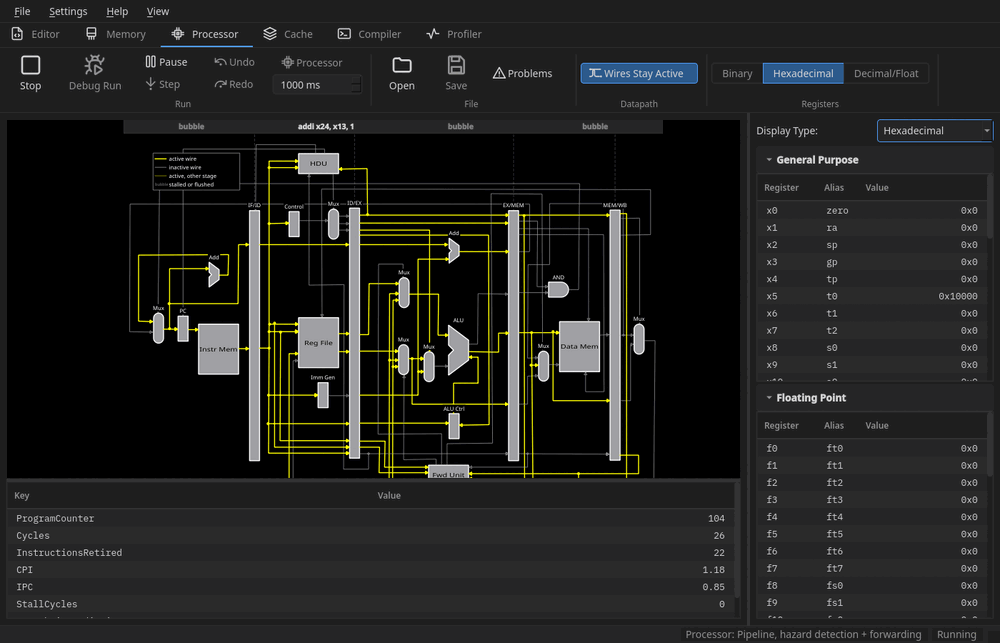
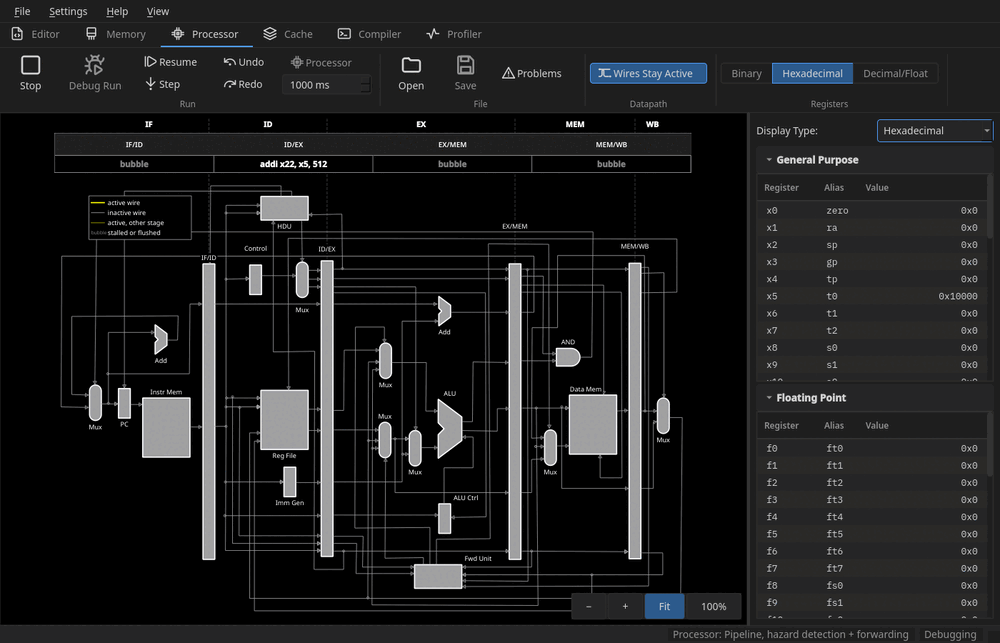
docs: zoom, the Profiler carrying the Processor tab's counters, test count 4,363 (polish)
- README: a feature line for the diagram's zoom (Fit by default, 25-400 %,
  Ctrl + wheel, pinch, Ctrl+plus/minus/0, the buttons); the Profiler line
  names the program counter; the processor screenshot replaced with the
  new layout (the diagram at Fit with its zoom buttons, no table under it).
- docs/profiler_metrics.md: the Profiler tab holds what the Processor tab
  used to show under the diagram (the counters, plus Program counter in the
  Summary), split 55 / 45 so every table is whole (known_issues 147).
- Test count 4,363 (4,326 + 37) in AGENTS.md, GEMINI.md, docs/TESTING.md and
  README.md; a full serial run took 588 s.

diff --git a/README.md b/README.md
@@ -15,11 +15,12 @@ watch what the hardware does:
 
 - **Five processor models.** Single-cycle, and a five-stage pipeline in four variants: with or without hazard detection, and with or without forwarding. Choose with the ribbon's **Processor** button, or `--vm` on the CLI.
 - **Hazards and forwarding, shown.** The Processor tab draws the datapath and lights the wires each cycle uses, including the hazard unit and the forwarding unit. The pipeline timing grid shows each instruction's stages per cycle, marks stalls and flushes, and explains a selected cell. Undo, Redo and a jump to any cycle step back through a run.
+- **Zoom.** The processor diagram fits the window by default and zooms from 25 % to 400 % with Ctrl + mouse wheel, a touchpad pinch, Ctrl+plus / Ctrl+minus / Ctrl+0 (Fit), or the buttons at its bottom right; drag to pan when zoomed.
 - **Caches and the Cache Lab.** An instruction cache, an L1 data cache and an L2, each configurable (sets, ways, line size, write policies, LRU, FIFO or a Lua script). The Cache Lab adds:
   - a live set × way view of every line during a run;
   - one-click lab presets;
   - an exported JSON lab record per run.
-- **Profiler.** Cycles, instructions, CPI, IPC, stall and flush breakdowns, branch mispredictions, per-line execution counts and instruction-type counts. Under "More metrics":
+- **Profiler.** The program counter, cycles, instructions, CPI, IPC, stall and flush breakdowns, branch mispredictions, per-line execution counts and instruction-type counts. Under "More metrics":
   - the retired-instruction mix (per type, per mnemonic, loads and stores);
   - branch statistics (taken rate, misprediction rate);
   - speed-up over the single-cycle processor (cycle counts only);
@@ -34,7 +35,7 @@ watch what the hardware does:
   - a command-line simulator;
   - ten themes.
 
-| Five-stage pipeline, mid-run | Cache Lab live view during `stride_1` |
+| Five-stage pipeline (Fit; zoom buttons at the bottom right) | Cache Lab live view during `stride_1` |
 | --- | --- |
 | ![Processor tab](docs/images/processor_pipeline.png) | ![Cache tab](docs/images/cache_live_view.png) |
 
@@ -79,7 +80,7 @@ Write or open a `.s` file in the Editor tab and press **Run** (or **Debug Run**,
 cmake --preset linux-test && cmake --build --preset linux-test && ctest --preset linux-test
 ```
 
-There are 4,326 tests, all passing; a serial run takes about 10 minutes. **Run them serially, never `ctest -j`**: the GUI tests share a scratch file. See [docs/TESTING.md](docs/TESTING.md).
+There are 4,363 tests, all passing; a serial run takes about 10 minutes. **Run them serially, never `ctest -j`**: the GUI tests share a scratch file. See [docs/TESTING.md](docs/TESTING.md).
 
 ## Command line
 
@@ -111,7 +112,7 @@ The lab's expected hit, miss and eviction counts are measured and pinned by the 
 | `src/` | The simulator and the application: assembler, processor models, caches, scheduler, UI. |
 | `cli/` | The command-line simulator, `atlas-cli`. |
 | `main.cpp` | The application's entry point. |
-| `test/` | The GoogleTest suite (4,326 tests). |
+| `test/` | The GoogleTest suite (4,363 tests). |
 | `examples/` | Example programs: hazards, F/D, cache lab, scheduler demos, Lua replacement policies. |
 | `resources/` | Compiled-in resources: themes, icons, fonts, processor diagrams, instruction data. |
 | `external/` | Vendored Lua 5.5.0, for custom cache replacement policies. |

diff --git a/AGENTS.md b/AGENTS.md
@@ -35,8 +35,8 @@
 
 ## Known Baseline Issues & Verified Facts
 1. **Test Suite Status & Harness Resolution**:
-   - Total registered tests: **4,326** (final/metrics; 158 at the original audit).
-   - Test execution result: **4,326/4,326 pass** under serial `ctest --test-dir build-tests`. Do not use `ctest -j`: the GUI tests share `test/vm_state/temp.asm` and flake in parallel (known_issues 150, `docs/TESTING.md`).
+   - Total registered tests: **4,363** (final/polish; 158 at the original audit).
+   - Test execution result: **4,363/4,363 pass** under serial `ctest --test-dir build-tests`. Do not use `ctest -j`: the GUI tests share `test/vm_state/temp.asm` and flake in parallel (known_issues 150, `docs/TESTING.md`).
    - *Harness Root Cause 1*: `test/test_main.cpp` originally lacked a `QApplication`. Constructing any RVSS/RV5S processor builds a `QGraphicsScene`, which crashed with `SIGSEGV` when uninitialized in headless environments. Fixed with an offscreen headless `QApplication` in `test_main.cpp`.
    - *Harness Root Cause 2*: Tests open `"../examples/..."` (~100 occurrences), requiring execution with working directory set to `test/`. CTest sets this automatically via `gtest_discover_tests` `WORKING_DIRECTORY`.
    - Earlier "43 pass / 115 fail" figures were due to running without QApplication / wrong working directory, not simulator logic bugs.

diff --git a/docs/profiler_metrics.md b/docs/profiler_metrics.md
@@ -5,7 +5,7 @@ The first set of extra Profiler metrics (the 21 Nov roadmap). They are additive 
 - no simulator logic changed: nothing under `src/processor` or `src/assembler`.
 
 Where they appear:
-- **Profiler tab, "More metrics"**, below the two existing tables. Its tabs are Summary, By type, By mnemonic and Hottest loops, with a caption underneath.
+- **Profiler tab, "More metrics"**, below the two existing tables. Its tabs are Summary, By type, By mnemonic and Hottest loops, with a caption underneath. Since final/polish the Profiler tab also holds everything the Processor tab used to show under the diagram: the counters were already its own rows, and the Summary gains **Program counter** [Measured], in hex. The source and the numbers share the tab 55 / 45, so every table is whole at the default window width (known_issues 147).
 - **Cache tab:** misses by cause, in each cache's live view.
 
 Every number is labelled like the existing counters:

diff --git a/GEMINI.md b/GEMINI.md
@@ -8,7 +8,7 @@ See [AGENTS.md](AGENTS.md) for primary instructions.
 - **Build**: `cmake -S . -B build -G Ninja && cmake --build build` (or `./scripts/build.sh`)
 - **Tests**: `cmake -S . -B build-tests -G Ninja -DENABLE_TESTS=ON && cmake --build build-tests && ctest --test-dir build-tests --output-on-failure` (or `./scripts/test.sh`)
   - Always run tests via `ctest --test-dir build-tests` (tests open `../examples/...` and require working directory `test/`).
-  - Active test baseline: **4,326/4,326 pass** under serial CTest.
+  - Active test baseline: **4,363/4,363 pass** under serial CTest.
 - **Core Rules**:
   - One feature per branch; one commit per logical working change.
   - Test after every change (`ctest --test-dir build-tests`).

diff --git a/docs/TESTING.md b/docs/TESTING.md
@@ -33,7 +33,7 @@ This builds and runs `atlas_test` only — the fast path for everyday local test
 
 ## Run ctest serially
 
-Run the suite one test at a time (plain `ctest`, no `-j`). The suite has 4,326 tests and
+Run the suite one test at a time (plain `ctest`, no `-j`). The suite has 4,363 tests and
 takes about 10 minutes serially (608 s on final/metrics); all of them pass.
 
 Under `ctest -j` the GUI tests flake (`Pipelines/TimingGridGui.*`, `Models/TimingGridJump.*` and the other GUI suites).
